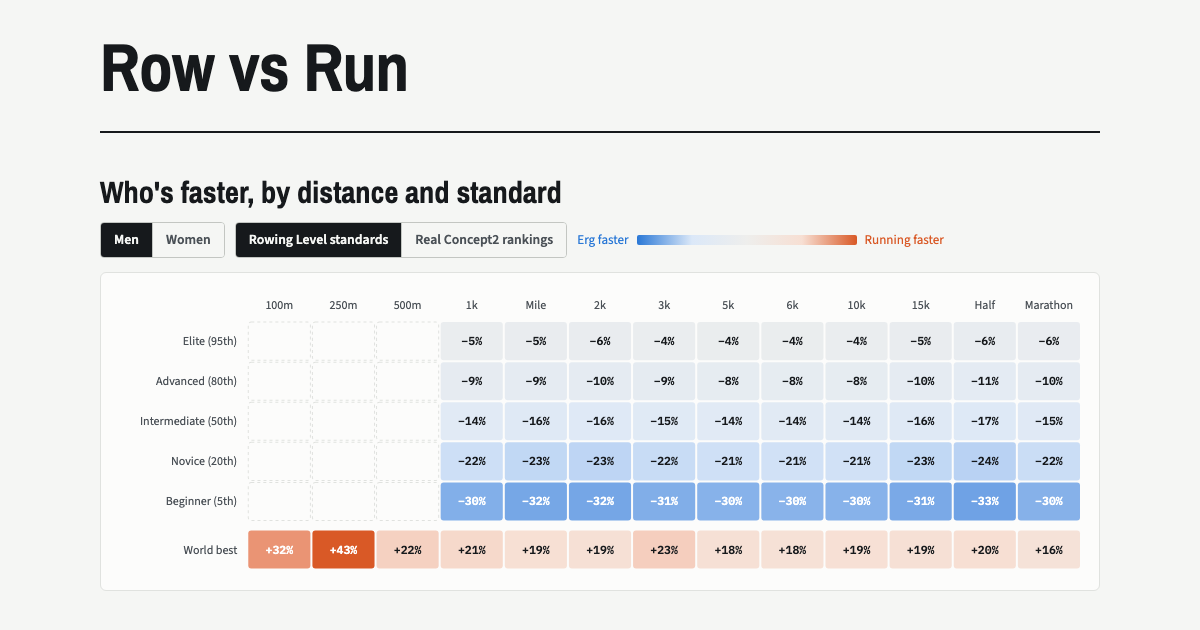
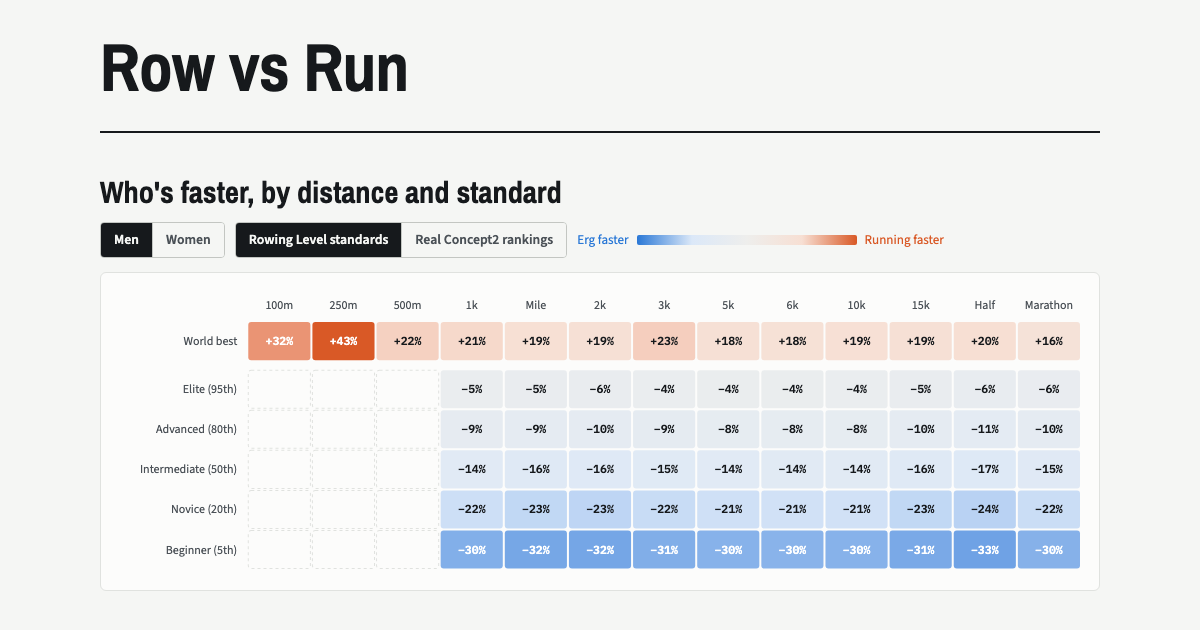
Row vs Run: move world-best row to the top of the main heatmap
Standards now read top to bottom from world best to beginner.

diff --git a/visualisations/row-vs-run/index.html b/visualisations/row-vs-run/index.html
@@ -131,7 +131,7 @@ td.n, th.n { text-align: right; font-family: var(--f-mono); font-variant-numeric
 
 <section class="block" id="heat">
   <div class="head"><span class="eyebrow">The answer</span><h2>Who's faster, by distance and standard</h2>
-  <p>Each cell compares the same standard of athlete in each sport, at the same population percentile. Orange cells mean running is faster. Blue cells mean the erg is faster. The bottom row compares world bests. Switch the erg data between Rowing Level's standards (age 30) and real 2025 Concept2 rankings (age 30–39, against age-35 running standards).</p></div>
+  <p>Each cell compares the same standard of athlete in each sport, at the same population percentile. Orange cells mean running is faster. Blue cells mean the erg is faster. The top row compares world bests. Switch the erg data between Rowing Level's standards (age 30) and real 2025 Concept2 rankings (age 30–39, against age-35 running standards).</p></div>
   <div class="row"><div class="seg" role="group" aria-label="Gender" id="hG"></div><div class="seg" role="group" aria-label="Erg data" id="hS"></div>
     <div class="scale"><span class="row-c">Erg faster</span><span class="bar"></span><span class="run-c">Running faster</span></div></div>
   <div class="panel scroll"><div class="chart" id="heatChart"></div></div>
@@ -233,13 +233,13 @@ let hG = "M", hS = "level";
 function drawHeat() {
   const g = hG, HEAT = hS === "c2" ? R.heat_c2 : R.heat, ageTxt = hS === "c2" ? "age 30–39, real Concept2 rankings" : "age 30";
   const box = $("#heatChart"); box.innerHTML = "";
-  const rows = [...LEVELS.slice().reverse(), "World best"], cols = R.grid.map(x => x.d);
+  const rows = ["World best", ...LEVELS.slice().reverse()], cols = R.grid.map(x => x.d);
   const cw = 64, ch = 40, lw = 128, th = 30, W = lw + cols.length * cw, H = th + rows.length * ch + 10;
   const svg = el("svg", { viewBox: `0 0 ${W} ${H}`, role: "img", "aria-label": `${GL[g]}: running vs erg speed by distance and standard` }, box);
   svg.style.minWidth = "760px";
   cols.forEach((d, j) => el("text", { x: lw + j * cw + cw / 2, y: 18, "text-anchor": "middle", class: "lbl", text: DL[d] }, svg));
   rows.forEach((r, i) => {
-    const y = th + i * ch + (r === "World best" ? 8 : 0);
+    const y = th + i * ch + (r === "World best" ? 0 : 8);  // small gap below the world-best row
     el("text", { x: lw - 10, y: y + ch / 2 + 4, "text-anchor": "end", class: "lbl", text: r === "World best" ? "World best" : `${r} (${LQ[r]}th)` }, svg);
     cols.forEach((d, j) => {
       const h = HEAT.find(x => x.gender === g && x.standard === r && x.distance_m === d);
